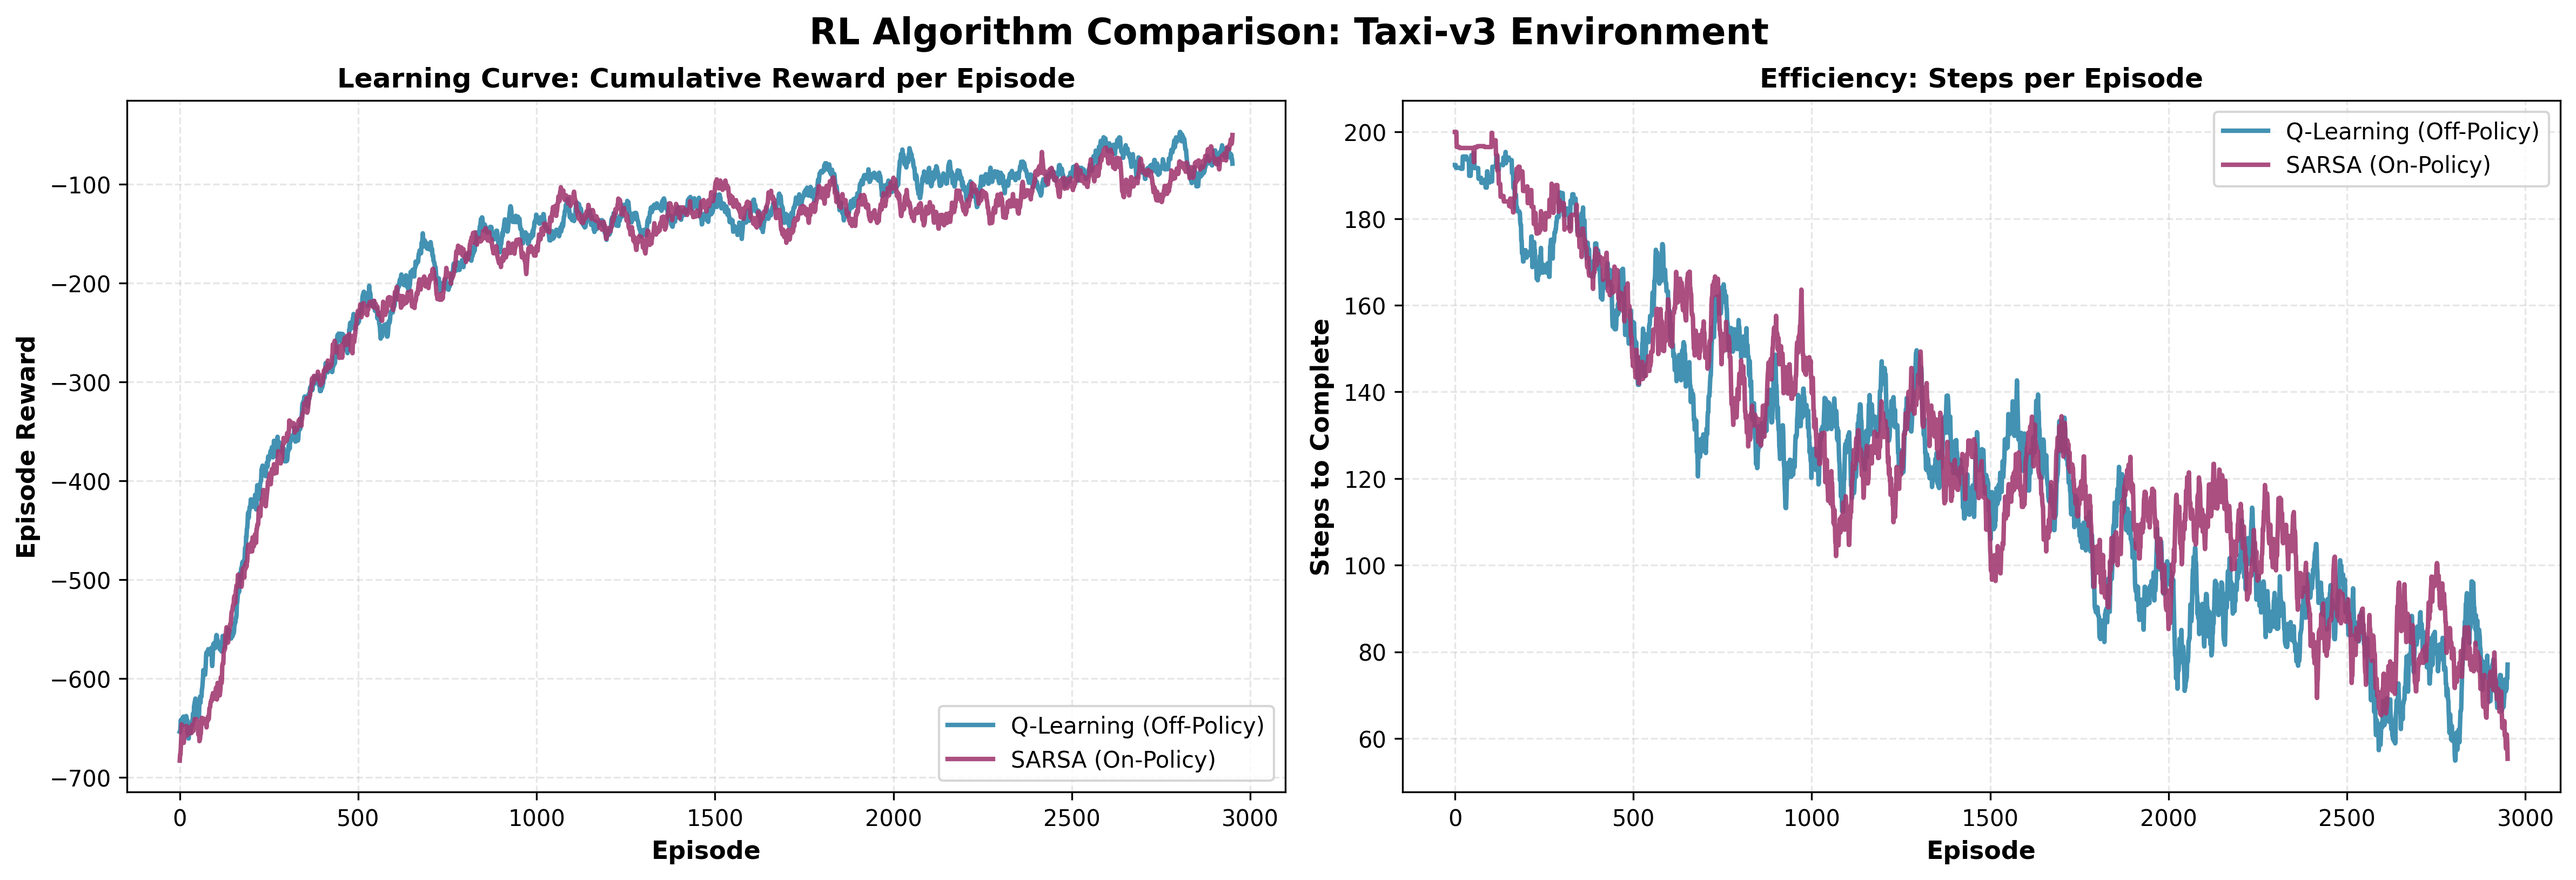
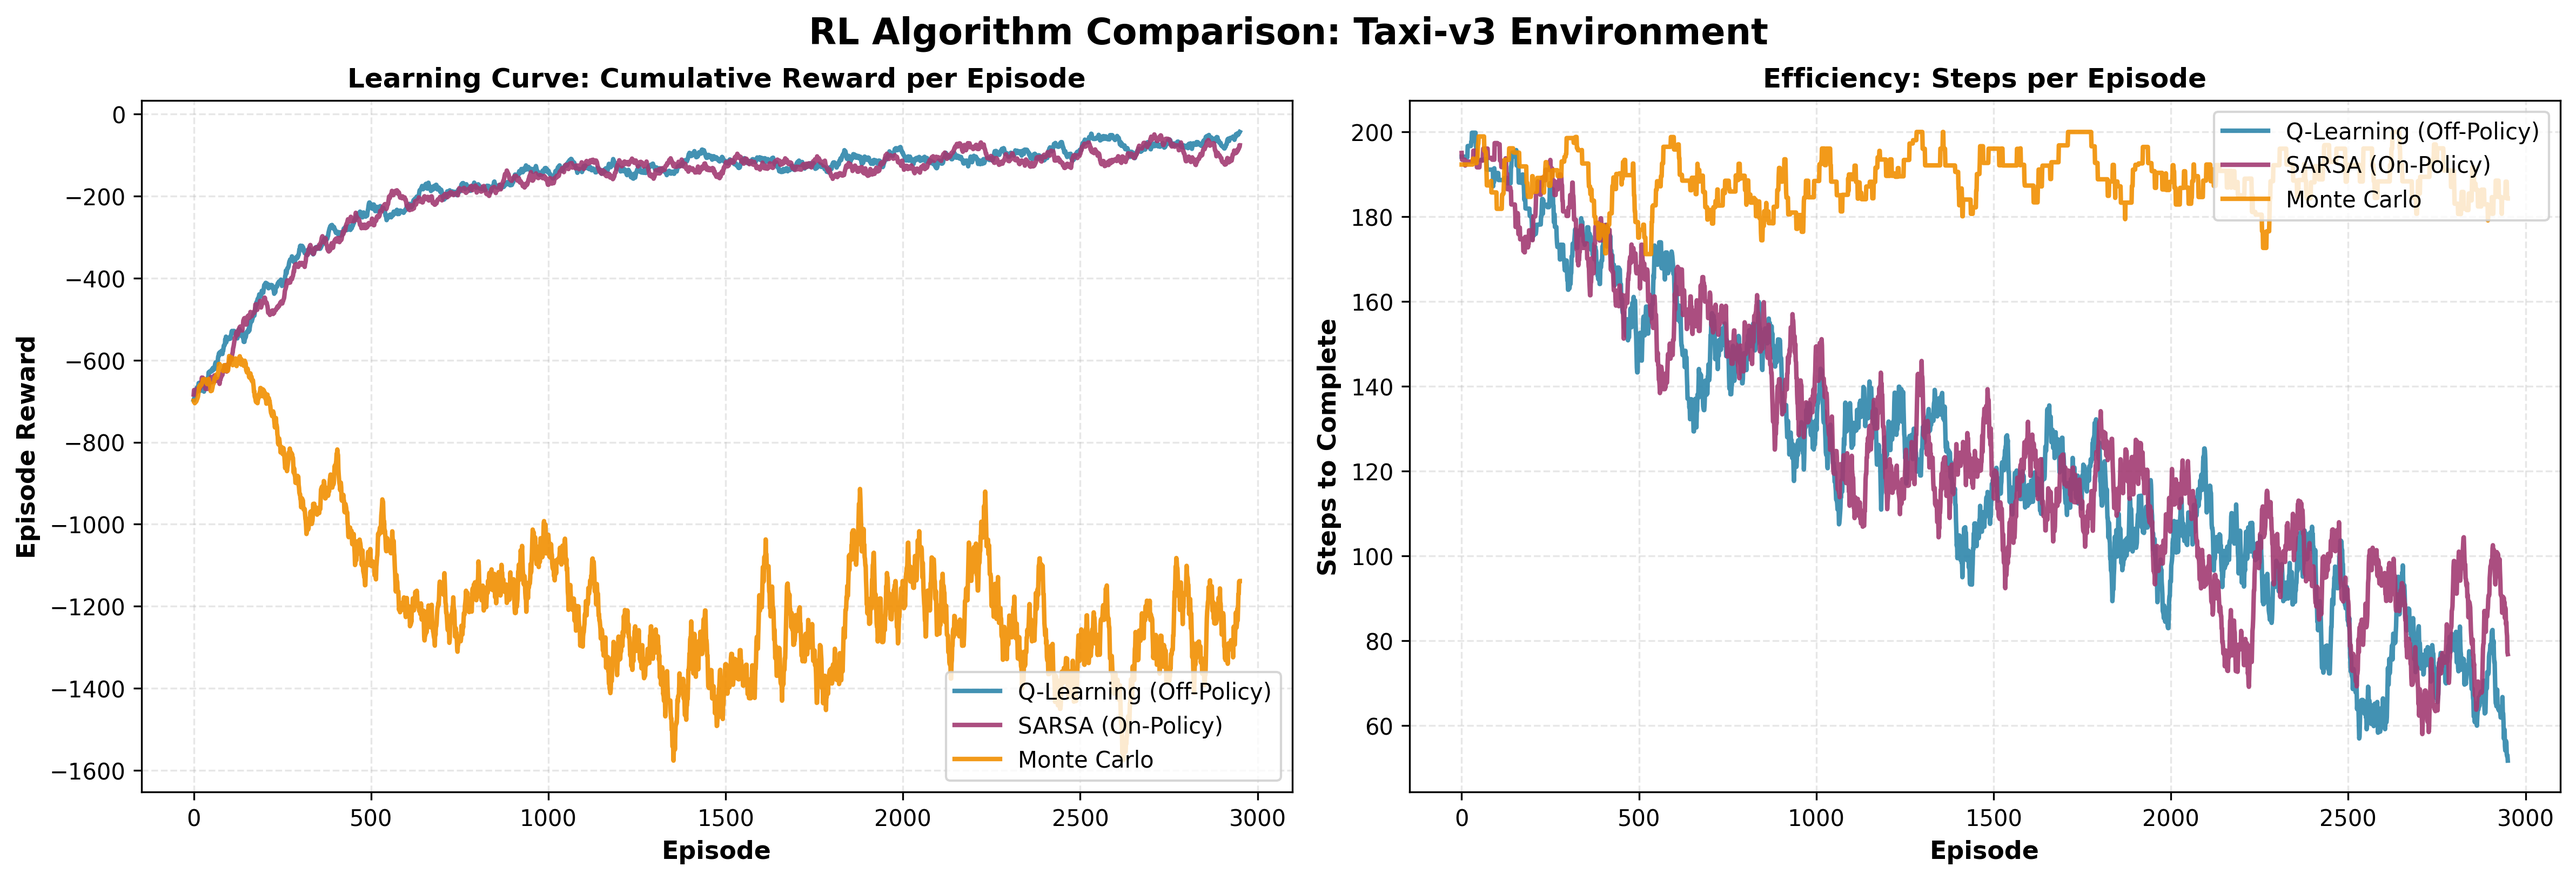
Color to Larger Visual
Color is added to ASCII visual, still think visual is only slightly helpful due to low success rate

diff --git a/src/LargerTaxi.py b/src/LargerTaxi.py
@@ -1,6 +1,14 @@
 import gymnasium as gym
 from gymnasium import spaces
 import numpy as np
+import sys
+
+COLOR_RED = "\033[31m"
+COLOR_GREEN = "\033[32m"
+COLOR_YELLOW = "\033[33m"
+COLOR_BLUE = "\033[34m"
+COLOR_RESET = "\033[0m"
+COLOR_BOLD = "\033[1m"
 
 class TaxiLargeEnv(gym.Env):
 
@@ -151,17 +159,53 @@ class TaxiLargeEnv(gym.Env):
         return state, reward, terminated, truncated, {}
 
     def render(self):
-        """Simple ASCII rendering."""
-        out = ""
+        """Faithful Taxi-v3 ASCII renderer (scaled for larger grids)."""
+        out = []
+
+        # Top border
+        out.append("+" + "-" * (self.grid_size * 2 - 1) + "+")
+
+        # Color letters for original 4 locations
+        loc_letters = ["R", "G", "Y", "B"]
+        loc_colors = [COLOR_RED, COLOR_GREEN, COLOR_YELLOW, COLOR_BLUE]
+
         for r in range(self.grid_size):
-            row = ""
+            row_str = "|"
+
             for c in range(self.grid_size):
+
+                # Determine if a wall is to the right
+                right_wall = (r, c) in self.walls
+
+                # Taxi position
                 if (r, c) == (self.taxi_row, self.taxi_col):
-                    row += "T "
+                    cell = COLOR_YELLOW + ("T*" if self.passenger_loc == self.in_taxi else "T") + COLOR_RESET
                 else:
-                    row += ". "
-            out += row + "\n"
-        return out
+                    cell = "."
+
+                # Pickup/dropoff locations
+                for i, (lr, lc) in enumerate(self.locs):
+                    if (r, c) == (lr, lc):
+                        cell = loc_colors[i] + loc_letters[i] + COLOR_RESET
+
+                row_str += cell
+
+                # Wall or space to the right
+                row_str += "|" if right_wall else " "
+
+            row_str += "|"
+            out.append(row_str)
+
+        # Bottom border
+        out.append("+" + "-" * (self.grid_size * 2 - 1) + "+")
+
+        # Combine and print or return
+        output = "\n".join(out)
+        if self.render_mode == "ansi":
+            return output
+        else:
+            print(output)
+            return output
 
 from gymnasium.envs.registration import register
 

diff --git a/src/main.py b/src/main.py
@@ -6,6 +6,7 @@ import time
 import matplotlib.pyplot as plt
 from LargerTaxi import TaxiLargeEnv
 
+
 # --- Import your agents ---
 from Q_Learning import QLearningAgent
 from SARSAA import SARSAAgent
@@ -287,19 +288,19 @@ def main():
              config['alpha'], config['gamma'],
              config['epsilon'], config['epsilon_decay'], config['epsilon_min']
          ),
-        # MonteCarloAgent(
-        #     config['n_states'], config['n_actions'],
-        #     config['alpha'], config['gamma'],
-        #     config['epsilon'], config['epsilon_decay'], config['epsilon_min']
-        # ),
+         MonteCarloAgent(
+             config['n_states'], config['n_actions'],
+             config['alpha'], config['gamma'],
+             config['epsilon'], config['epsilon_decay'], config['epsilon_min']
+         ),
         # DQNAgent(
         #    config['n_states'], config['n_actions'],
         #    alpha=0.001,  # DQN needs a smaller learning rate than Q-Learning!
         #    gamma=config['gamma'],
-         #   epsilon=config['epsilon'],
-         #   epsilon_decay=config['epsilon_decay'],
-         #   epsilon_min=config['epsilon_min']
-       # )
+        #   epsilon=config['epsilon'],
+        #    epsilon_decay=config['epsilon_decay'],
+        #    epsilon_min=config['epsilon_min']
+      #  )
     ]
 
     # 4. Dictionaries to store results
@@ -336,7 +337,7 @@ def main():
         if USE_LARGE_TAXI:
             watch_agent(agent, use_large_env='TaxiLarge-v3')
         else:
-            watch_agent(agent, env_name='Taxi-v3')
+            watch_agent(agent)
 
     print("\nAll tasks complete!")
 
